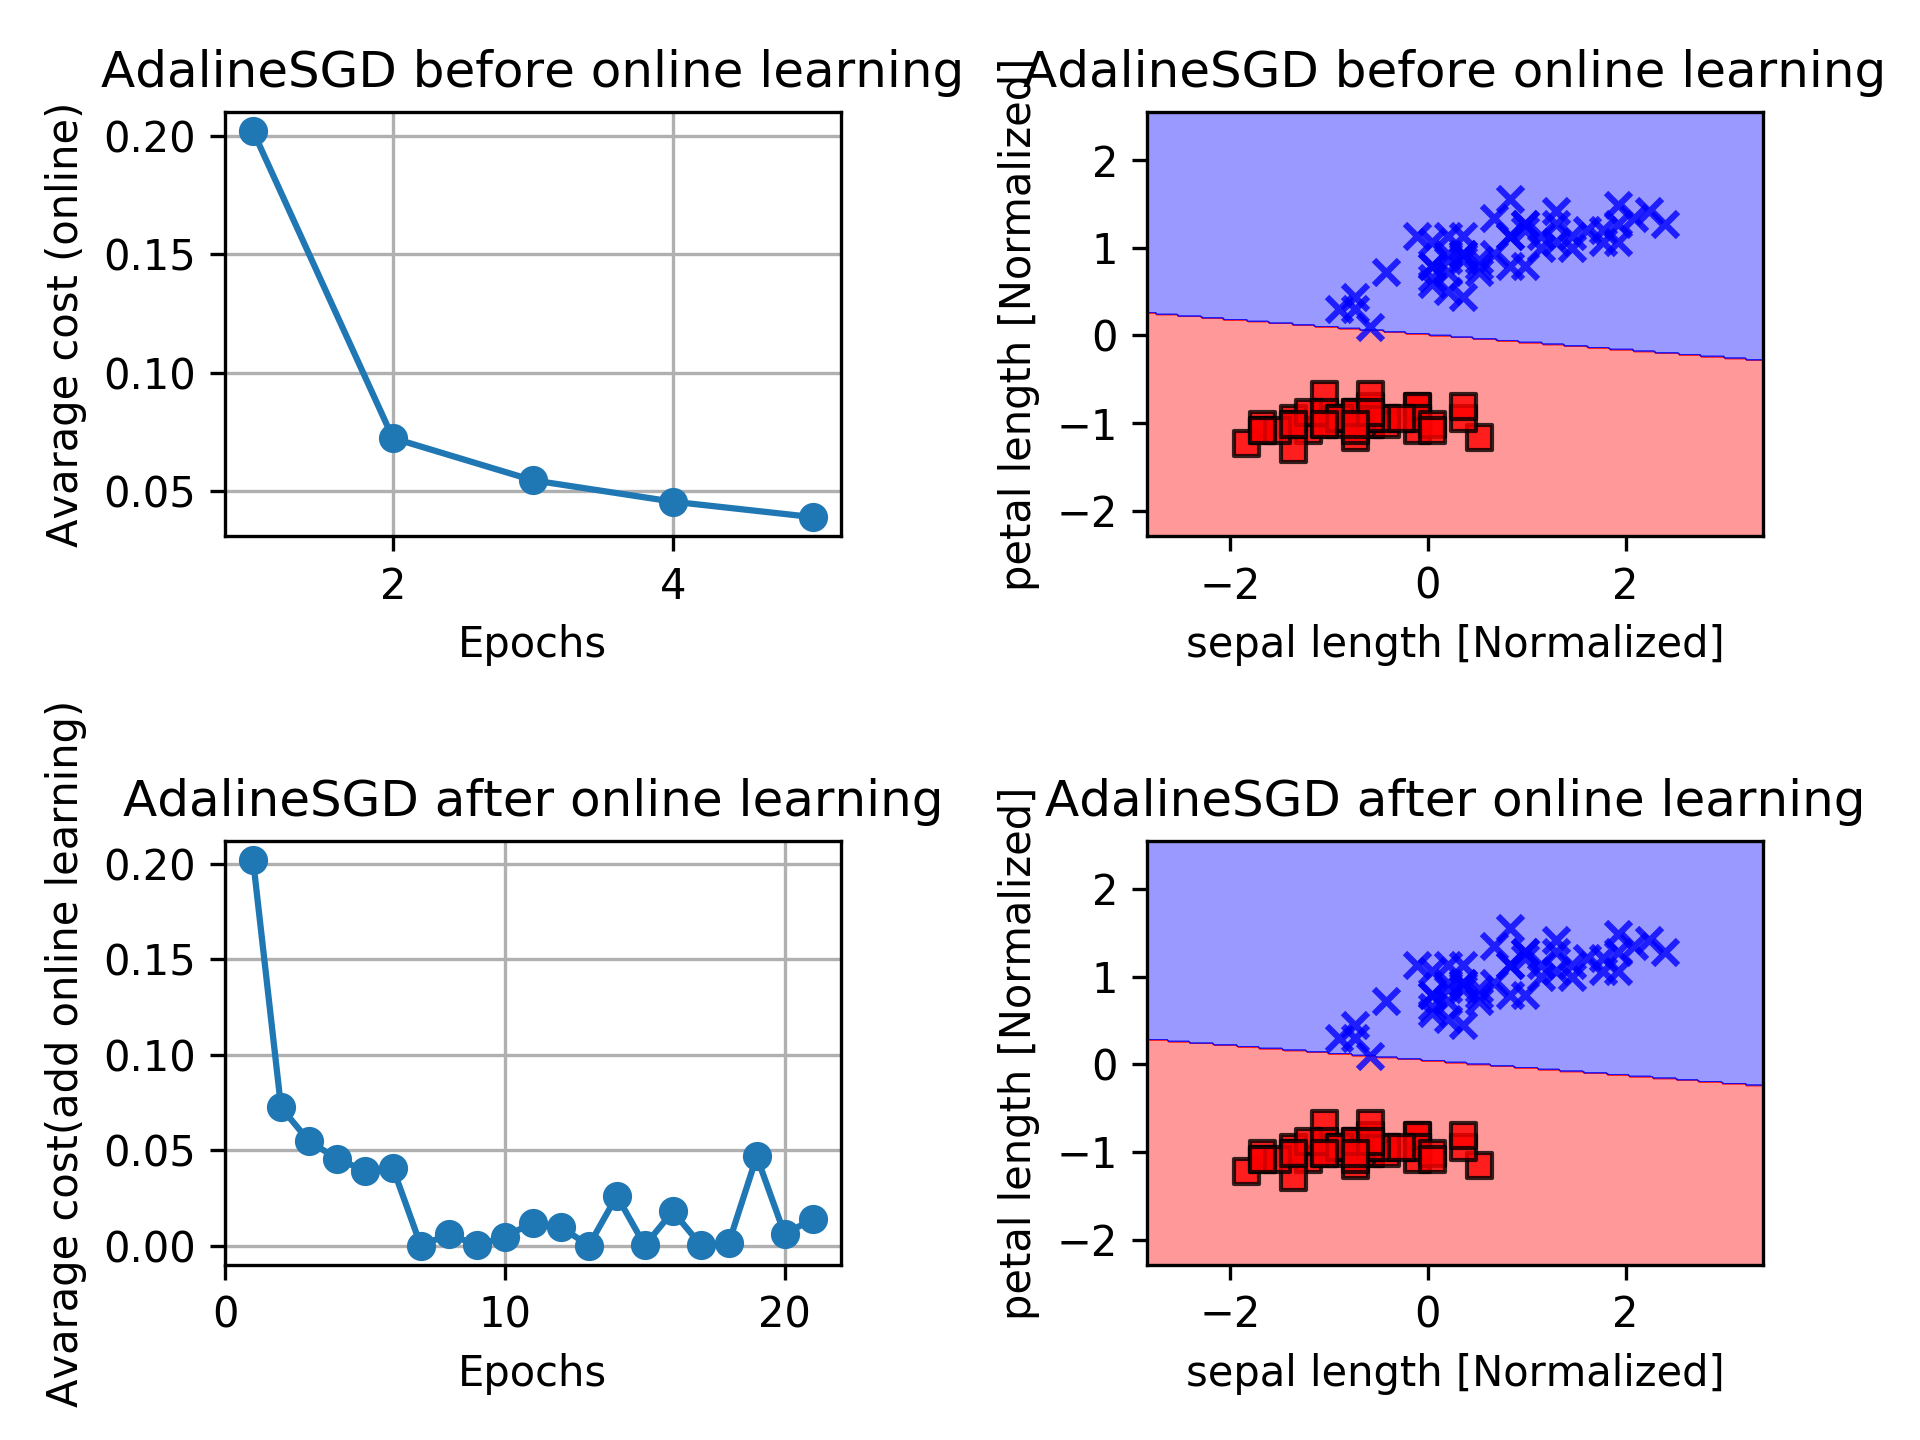
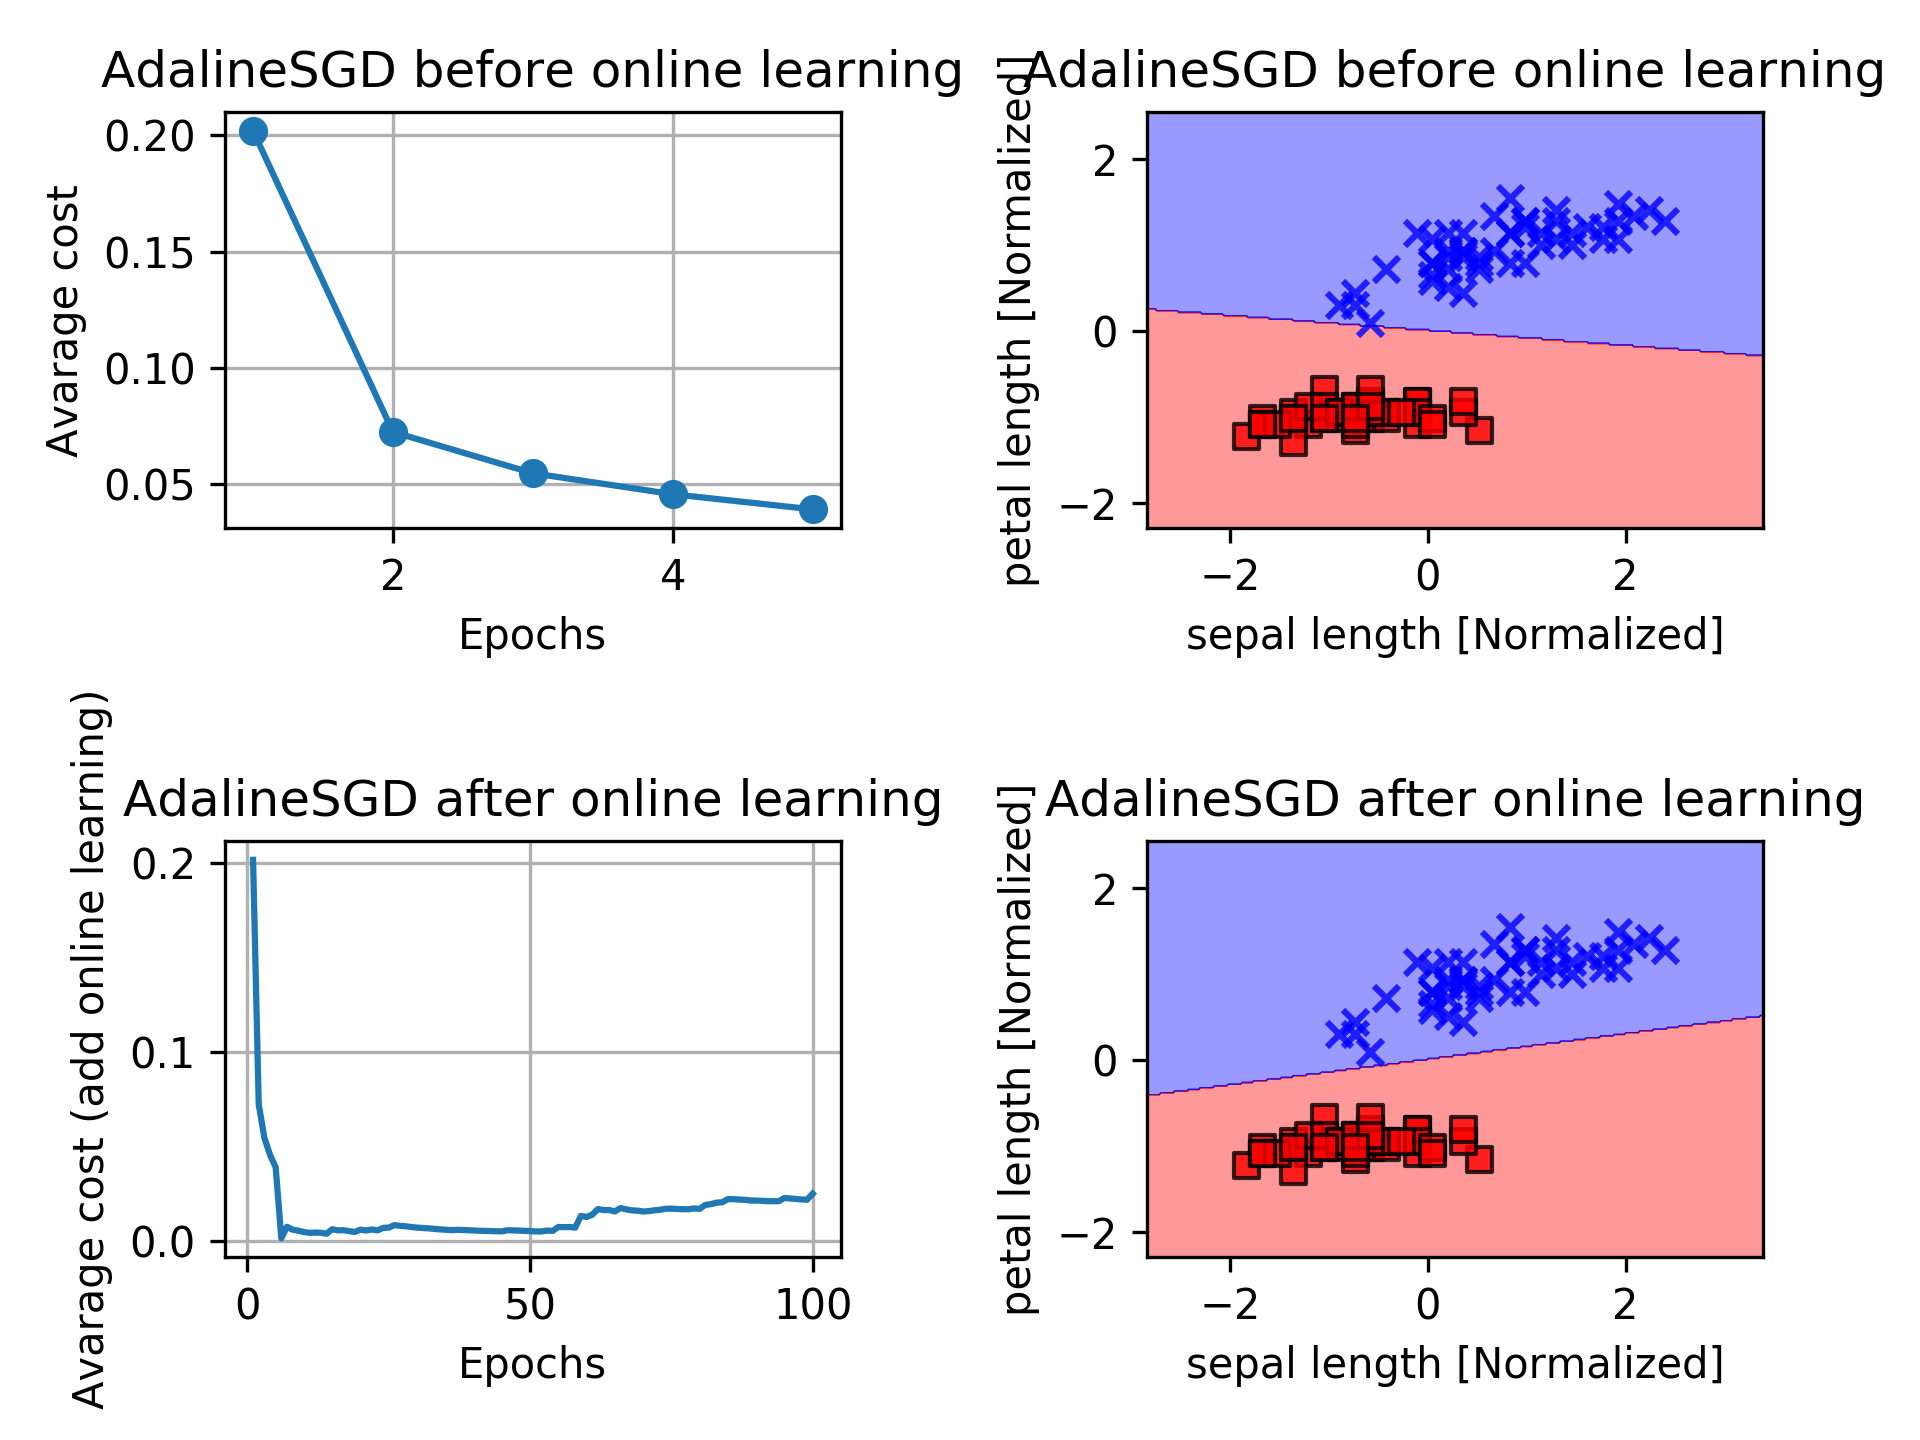
Add files via upload

diff --git a/AdaLineSGD/main.py b/AdaLineSGD/main.py
@@ -16,7 +16,7 @@ def main():
         'machine-learning-databases/iris/iris.data', 
         header = None)
     print("finish reading iris data from pandas-lib")
-    #df_Iris.tail()
+    df_Iris.tail()
 
     dat_y = df_Iris.iloc[0:100,4].values                #
     dat_y = numpy.where(dat_y == "Iris-setosa", -1, 1)  # Iris-setosa = -1, Iris-virginica = 1 にラベル変換
@@ -44,15 +44,19 @@ def main():
     plt.grid(linestyle='-')
 
     # 品種 setosa のplot(赤の○)
-    plt.scatter(dat_X_std[0:50,0], dat_X_std[0:50,1],
+    plt.scatter(
+        dat_X_std[0:50,0], dat_X_std[0:50,1],
         color = "red",
         marker = "o",
-        label = "setosa")
+        label = "setosa"
+    )
     # 品種 virginica のplot(青のx)
-    plt.scatter(dat_X_std[50:100,0], dat_X_std[50:100,1],
+    plt.scatter(
+        dat_X_std[50:100,0], dat_X_std[50:100,1],
         color = "blue",
         marker = "x",
-        label = "virginica")
+        label = "virginica"
+    )
 
     plt.title("Learning data [Normalized]")        #
     plt.xlabel("sepal length [Normalized]")
@@ -103,7 +107,7 @@ def main():
         marker = 'o'
     )
     plt.xlabel("Epochs")
-    plt.ylabel("Avarage cost (online)")
+    plt.ylabel("Avarage cost")
     plt.title( "AdalineSGD before online learning" )
     plt.tight_layout()  # グラフ同士のラベルが重ならない程度にグラフを小さくする。
 
@@ -119,29 +123,37 @@ def main():
     #   Online Learning Process
     #----------------------------------------------------
     # ストリーミングデータ (5~10) でオンライン学習
-    #for smIndex in dat_y[5:15] :
-    #    ada2.online_fit( X_train = dat_X_std[smIndex, :], y_train = dat_y[smIndex] )
+    for smIndex in range(5,100):
+        print(smIndex)
+        ada2.online_fit( X_train = dat_X_std[0:smIndex, :], y_train = dat_y[0:smIndex] )
 
-    ada2.online_fit( X_train = dat_X_std[5, :], y_train = dat_y[5] )
-    ada2.online_fit( X_train = dat_X_std[6, :], y_train = dat_y[6] )
-    ada2.online_fit( X_train = dat_X_std[7, :], y_train = dat_y[7] )
-    ada2.online_fit( X_train = dat_X_std[8, :], y_train = dat_y[8] )
-    ada2.online_fit( X_train = dat_X_std[9, :], y_train = dat_y[9] )
+    """    
+    ada2.online_fit( X_train = dat_X_std[0:5, :], y_train = dat_y[0:5] )
+    ada2.online_fit( X_train = dat_X_std[0:6, :], y_train = dat_y[0:6] )
+    ada2.online_fit( X_train = dat_X_std[0:7, :], y_train = dat_y[0:7] )
+    ada2.online_fit( X_train = dat_X_std[0:8, :], y_train = dat_y[0:8] )
+    ada2.online_fit( X_train = dat_X_std[0:9, :], y_train = dat_y[0:9] )
     
-    ada2.online_fit( X_train = dat_X_std[10, :], y_train = dat_y[10] )
-    ada2.online_fit( X_train = dat_X_std[11, :], y_train = dat_y[11] )
-    ada2.online_fit( X_train = dat_X_std[12, :], y_train = dat_y[12] )
-    ada2.online_fit( X_train = dat_X_std[13, :], y_train = dat_y[13] )
-    ada2.online_fit( X_train = dat_X_std[14, :], y_train = dat_y[14] )
+    ada2.online_fit( X_train = dat_X_std[0:10, :], y_train = dat_y[0:10] )
+    ada2.online_fit( X_train = dat_X_std[0:11, :], y_train = dat_y[0:11] )
+    ada2.online_fit( X_train = dat_X_std[0:12, :], y_train = dat_y[0:12] )
+    ada2.online_fit( X_train = dat_X_std[0:13, :], y_train = dat_y[0:13] )
+    ada2.online_fit( X_train = dat_X_std[0:14, :], y_train = dat_y[0:14] )
 
-    ada2.online_fit( X_train = dat_X_std[15, :], y_train = dat_y[15] )
-    ada2.online_fit( X_train = dat_X_std[16, :], y_train = dat_y[16] )
-    ada2.online_fit( X_train = dat_X_std[17, :], y_train = dat_y[17] )
-    ada2.online_fit( X_train = dat_X_std[18, :], y_train = dat_y[18] )
-    ada2.online_fit( X_train = dat_X_std[19, :], y_train = dat_y[19] )
+    ada2.online_fit( X_train = dat_X_std[0:15, :], y_train = dat_y[0:15] )
+    ada2.online_fit( X_train = dat_X_std[0:16, :], y_train = dat_y[0:16] )
+    ada2.online_fit( X_train = dat_X_std[0:17, :], y_train = dat_y[0:17] )
+    ada2.online_fit( X_train = dat_X_std[0:18, :], y_train = dat_y[0:18] )
+    ada2.online_fit( X_train = dat_X_std[0:19, :], y_train = dat_y[0:19] )
 
-    ada2.online_fit( X_train = dat_X_std[10:30, :], y_train = dat_y[10:30] )
+    ada2.online_fit( X_train = dat_X_std[0:20, :], y_train = dat_y[0:20] )
+    ada2.online_fit( X_train = dat_X_std[0:21, :], y_train = dat_y[0:21] )
+    ada2.online_fit( X_train = dat_X_std[0:22, :], y_train = dat_y[0:22] )
+    ada2.online_fit( X_train = dat_X_std[0:23, :], y_train = dat_y[0:23] )
+    ada2.online_fit( X_train = dat_X_std[0:24, :], y_train = dat_y[0:24] )
 
+    ada2.online_fit( X_train = dat_X_std[0:30, :], y_train = dat_y[0:30] )
+    """
     #----------------------------------------------------
     #   Draw Figure 2-2
     #----------------------------------------------------
@@ -150,10 +162,11 @@ def main():
     plt.plot(
         range(1, len(ada2.cost_) + 1), 
         ada2.cost_, 
-        marker = 'o'
+        marker = 'o',
+        markersize = 0.05
     )
     plt.xlabel("Epochs")
-    plt.ylabel("Avarage cost(add online learning)")
+    plt.ylabel("Avarage cost (add online learning)")
     plt.title( "AdalineSGD after online learning" )
     plt.tight_layout()  # グラフ同士のラベルが重ならない程度にグラフを小さくする。
 
@@ -163,6 +176,11 @@ def main():
     plt.ylabel("petal length [Normalized]")        # label
     plt.title("AdalineSGD after online learning" )
     plt.tight_layout()  # グラフ同士のラベルが重ならない程度にグラフを小さくする。
+    
+    #ada2.weights_[0] = ada1.weights_[0]
+    #ada2.weights_[1] = ada1.weights_[1]
+    #ada2.weights_[2] = ada1.weights_[2]
+
     Plot2D.Plot2D.drawDiscriminantRegions( dat_X = dat_X_std, dat_y = dat_y, classifier = ada2 )
 
 

diff --git a/AdaLineSGD/AdaLineSGD.py b/AdaLineSGD/AdaLineSGD.py
@@ -3,7 +3,7 @@ from numpy.random import seed
 
 class AdaLineSGD(object):
     """
-    Adaptive liner neuron of classifier by stomatical gradient decent (online learning)
+    Adaptive liner neuron of classifier via stomatical gradient decent (online learning)
     （ADALine分類器 × 確率的勾配降下法による学習 ＜オンライン学習＞）
     
     #-------------------------------------------------------------------------------------
@@ -130,8 +130,12 @@ class AdaLineSGD(object):
 
         # 教師データ y の要素数が 1 個の場合（ y_train[0] のみ有効値）は、そのサンプルのみで重みを更新
         else:
-            self.cost_.append( self.updateWeights(X_train, y_train) )
+            cost = self.updateWeights( X_train, y_train )
+            self.cost_.append( cost )
 
+            #print(X_train)
+            #print(cost)
+            #print(self.cost_)
         return self
 
     def initializedWeights( self, shapes ):
@@ -171,5 +175,5 @@ class AdaLineSGD(object):
         return self.calcNetInput( X_train )
     
     def predict( self, X_train ):
-        """ 1Step 後のクラスラベルを返す"""
+        """ 1-Step 後のクラスラベルを返す"""
         return numpy.where( self.calcActivation(X_train) >= 0.0, 1, -1 )

diff --git a/AdaLineSGD/Plot2D.py b/AdaLineSGD/Plot2D.py
@@ -35,7 +35,7 @@ class Plot2D(object):
         xx2 = meshgrids[1]
 
         # ? 値の全ての組み合わせを１次元配列に変換 numpy.array( [xx1.ravel(), xx2.ravel()] ) し、
-        # ? classifierに設定されている predict（予想）を実行
+        # classifierに設定されている predict（予想）を実行
         Z = classifier.predict( 
                 numpy.array( [xx1.ravel(), xx2.ravel()] ).T
             )
@@ -50,7 +50,7 @@ class Plot2D(object):
         plt.ylim( xx2.min(), xx2.max() )
 
         # 識別クラス毎に、入力データ dat_X, dat_y の散布図 plot
-        for (idx, cl) in enumerate( numpy.unique(dat_y) ): # enumerate():idxと共に cl も loop
+        for (idx, cl) in enumerate( numpy.unique(dat_y) ): # enumerate():idx と共に clもloop
             plt.scatter(
                 x = dat_X[dat_y == cl, 0], 
                 y = dat_X[dat_y == cl, 1],
